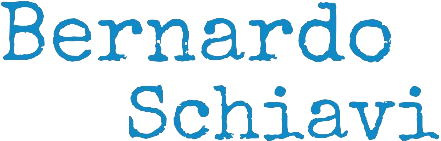
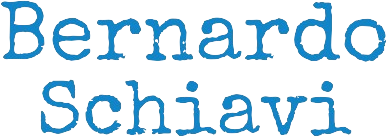
modos desde discografia

diff --git a/src/App.js b/src/App.js
@@ -4,6 +4,7 @@ import { Navbar, Feed, VideoId } from './components'
 import { fetchApi } from './utils/fetchApi'
 import { useEffect, useState } from 'react'
 import { createTheme, ThemeProvider, styled } from '@mui/material/styles';
+import Button from '@mui/material/Button';
 
 const theme = createTheme({
     palette: {
@@ -15,14 +16,15 @@ const theme = createTheme({
         bg2022: '#c1d4de',
     },
 });
-/*         green2019d: "#28306E",
-    green2019hover: '#1185C7', */
-
-
 
 const App = () => {
     const [selected, setSelected] = useState('Bio')
     const [mode, setMode] = useState(true)
+    const [checked, setChecked] = useState(false);
+
+    const toggleSwitch = () => {
+        setChecked((prev) => !prev);
+    };
 
     const [Cd1, setCd1] = useState()
     const [Cd2, setCd2] = useState()
@@ -39,10 +41,10 @@ const App = () => {
         <ThemeProvider theme={theme}>
             <BrowserRouter>
                 <Box sx={{ backgroundColor: mode ? 'bg2019' : 'bg2022' }}>
-                    <Navbar mode={mode} setMode={setMode} />
+                    <Navbar mode={mode} setMode={setMode} checked={checked} toggleSwitch={toggleSwitch} />
                     <Routes>
-                        <Route path='/' exact element={<Feed Cd1={Cd1} Cd2={Cd2} selected={selected} setSelected={setSelected} setIdCd={setIdCd} mode={mode} />} />
-                        <Route path='/video/:id' element={<VideoId Cd1={Cd1} Cd2={Cd2} idCd={idCd} setIdCd={setIdCd} />} />
+                        <Route path='/' exact element={<Feed Cd1={Cd1} Cd2={Cd2} selected={selected} setSelected={setSelected} setIdCd={setIdCd} mode={mode} setMode={setMode} toggleSwitch={toggleSwitch} />} />
+                        <Route path='/video/:id' element={<VideoId Cd1={Cd1} Cd2={Cd2} idCd={idCd} setIdCd={setIdCd} mode={mode} setMode={setMode} toggleSwitch={toggleSwitch} />} />
                     </Routes>
                 </Box>
             </BrowserRouter>

diff --git a/src/components/Navbar.jsx b/src/components/Navbar.jsx
@@ -2,24 +2,22 @@ import { SwitchMode } from './';
 import { Stack, Box } from '@mui/material'
 import { Link } from 'react-router-dom'
 import { logo, logo2022 } from '../utils/constants'
-import SearchBar from './SearchBar'
-import firma from '../utils/images/firma3.png'
+import firma2019 from '../utils/images/sc.png'
 import firma2022 from '../utils/images/firma.png'
 
 
-const Navbar = ({mode, setMode}) => (
+const Navbar = ({mode, setMode, checked, toggleSwitch}) => (
     <Box className={mode ? 'nav2019' : 'nav2022'}  sx={{position: 'sticky', top:0, zIndex:'20', width:'100%'}}>
         <Stack direction='row' alignItems='center' pt={1} sx={{backdropFilter:'blur(0px)', display: 'flex', justifyContent: 'space-between',}}>
-            <Box sx={{display: 'flex', alignItems: 'center', justifyContent: 'start', marginLeft: mode ? '28px' : '0px', marginTop: '4px'}}>
+            <Box sx={{display: 'flex', alignItems: 'center', justifyContent: 'start', marginLeft: mode ? '10px' : '0px', marginTop: '4px'}}>
                 <span style={{display: 'flex', alignItems: 'center'}}>
-
-                    <SwitchMode className='modeP' onClick={() => !setMode(!mode)} />
+                    <SwitchMode className='modeP' onClick={() => !setMode(!mode)} checked={checked} onChange={toggleSwitch}  />
                 </span>
-                <img src={mode ? firma : firma2022} alt="Bernardo Schiavi" height={46} style={{backdropFilter:'blur(10px)', marginLeft: mode ? '-30px' : '10px', marginBottom: '10px'}} /> {/* h:68 ml:9 */}
+                <Link to={'/'}>
+                    <img src={mode ? firma2019 : firma2022} alt="Bernardo Schiavi" height={56} style={{backdropFilter:'blur(10px)', marginLeft: mode ? '-30px' : '2px', marginBottom: '1px'}} /> {/* h:68 ml:9 */}
+                </Link>
             </Box>
-            <SearchBar />
         </Stack>
-
     </Box>
 )
 

diff --git a/src/components/VideoId.jsx b/src/components/VideoId.jsx
@@ -5,7 +5,7 @@ import ReactPlayer from 'react-player'
 import { VideoCard, Discography } from './'
 import { Box, Stack } from '@mui/material'
 
-const VideoId = ({Cd1, Cd2, idCd, setIdCd}) => {
+const VideoId = ({Cd1, Cd2, idCd, setIdCd, mode, toggleSwitch, setMode}) => {
     const { id } = useParams()
 
     const [key, setKey] = useState(0);
@@ -36,7 +36,7 @@ const VideoId = ({Cd1, Cd2, idCd, setIdCd}) => {
                 <Box px={2} py={{ md: 1, xs: 5 }} justifyContent="center" alignItems="center" >
                         {Cd1?.map((item1, idx) => (
                             <Box  py={1} key={idx}>
-                                {item1.id &&<VideoCard video={item1} setIdCd={setIdCd} />}
+                                {item1.id &&<VideoCard video={item1} setIdCd={setIdCd} mode={mode} setMode={setMode} toggleSwitch={toggleSwitch}/>}
                             </Box>
                         ))}
                 </Box>
@@ -62,7 +62,7 @@ const VideoId = ({Cd1, Cd2, idCd, setIdCd}) => {
                 <Box px={2} py={{ md: 1, xs: 5 }} justifyContent="center" alignItems="center" >
                         {Cd2?.map((item2, idx) => (
                             <Box py={1} key={idx}>
-                                {item2.id &&<VideoCard video={item2} setIdCd={setIdCd} />}
+                                {item2.id &&<VideoCard video={item2} setIdCd={setIdCd} mode={mode} setMode={setMode} toggleSwitch={toggleSwitch}/>}
                             </Box>
                         ))}
                 </Box>

diff --git a/src/components/Discography.jsx b/src/components/Discography.jsx
@@ -5,7 +5,7 @@ import { SwiperSlide } from 'swiper/react';
 import { useTheme } from '@mui/material';
 
 
-const Discography = ({ Cd1, Cd2, setIdCd, mode }) => {
+const Discography = ({ Cd1, Cd2, setIdCd, mode, setMode, toggleSwitch }) => {
     const theme = useTheme();
 
     if (!Cd1?.length) return <Loader />
@@ -24,7 +24,7 @@ const Discography = ({ Cd1, Cd2, setIdCd, mode }) => {
                 <SwiperCard>
                     {Cd2?.map((item2, idx) => (
                         <Box key={idx}>
-                            {item2.id && <SwiperSlide> <VideoCard video={item2} setIdCd={setIdCd} mode={mode}/></SwiperSlide>}
+                            {item2.id && <SwiperSlide> <VideoCard año={2022} video={item2} setIdCd={setIdCd} mode={mode} setMode={setMode} toggleSwitch={toggleSwitch}/></SwiperSlide>}
                         </Box>
                     ))}
                 </SwiperCard>
@@ -45,7 +45,7 @@ const Discography = ({ Cd1, Cd2, setIdCd, mode }) => {
                         <Box key={idx}>
                             {item1.id && 
                                 <SwiperSlide>
-                                    <VideoCard video={item1} setIdCd={setIdCd} mode={mode}/>
+                                    <VideoCard año={2019} video={item1} setIdCd={setIdCd} mode={mode} setMode={setMode} toggleSwitch={toggleSwitch}/>
                                 </SwiperSlide>
                             }
                         </Box>

diff --git a/src/components/Feed.jsx b/src/components/Feed.jsx
@@ -2,7 +2,7 @@ import { Box, Stack, Typography } from '@mui/material'
 import { Sidebar, Discography, Bio, Redes, Blog, Colaborar } from './'
 import { categories } from '../utils/constants'
 
-const Feed = ({Cd1, Cd2, selected, setSelected, setIdCd, mode}) => {
+const Feed = ({Cd1, Cd2, selected, setSelected, setIdCd, mode, setMode, toggleSwitch}) => {
 
     return (
         <Stack sx={{flexDirection: {sx: 'column', md: 'row'}}}>
@@ -35,7 +35,7 @@ const Feed = ({Cd1, Cd2, selected, setSelected, setIdCd, mode}) => {
 
                 {
                     selected == 'Discografia' &&
-                    <Discography Cd1={Cd1} Cd2={Cd2} setIdCd={setIdCd} mode={mode} />
+                    <Discography Cd1={Cd1} Cd2={Cd2} setIdCd={setIdCd} mode={mode} setMode={setMode} toggleSwitch={toggleSwitch}/>
                 }
                 {
                     selected == 'Bio' &&

diff --git a/src/components/VideoCard.jsx b/src/components/VideoCard.jsx
@@ -2,10 +2,21 @@ import { Link } from "react-router-dom";
 import { Typography, Card, CardContent, CardMedia } from "@mui/material";
 import CheckCircleIcon from "@mui/icons-material/CheckCircle";
 
-const VideoCard = ({ video: { id , snippet }, setIdCd, mode }) => {
+const VideoCard = ({ video: { id , snippet }, setIdCd, mode, setMode, toggleSwitch, año }) => {
     
     const handleCd = () => {
         setIdCd(snippet?.playlistId);
+        if(mode == false && año==2022) {
+            setMode(false)
+        } else if(mode == true && año==2022) {
+            setMode(false)
+            toggleSwitch();
+        } else if(mode == true && año==2019) {
+            setMode(true)
+        } else if(mode == false && año==2019) {
+            setMode(true)
+            toggleSwitch();
+        }
     };
 
     return (

diff --git a/src/components/index.js b/src/components/index.js
@@ -1,7 +1,6 @@
 export {default as Navbar} from './Navbar.jsx'
 export {default as Feed} from './Feed.jsx'
 export {default as VideoId} from './VideoId.jsx'
-export {default as SearchBar} from './SearchBar.jsx'
 export {default as Sidebar} from './Sidebar.jsx'
 export {default as Discography} from './Discography.jsx'
 export {default as VideoCard} from './VideoCard.jsx'

diff --git a/src/components/Switch.jsx b/src/components/Switch.jsx
@@ -1,5 +1,7 @@
 import { Switch } from '@mui/material'
 import { styled } from '@mui/material/styles';
+import React, { useState } from 'react';
+import Button from '@mui/material/Button';
 
 const SwitchMode = styled(Switch)(({ theme }) => ({
     width: 144,
